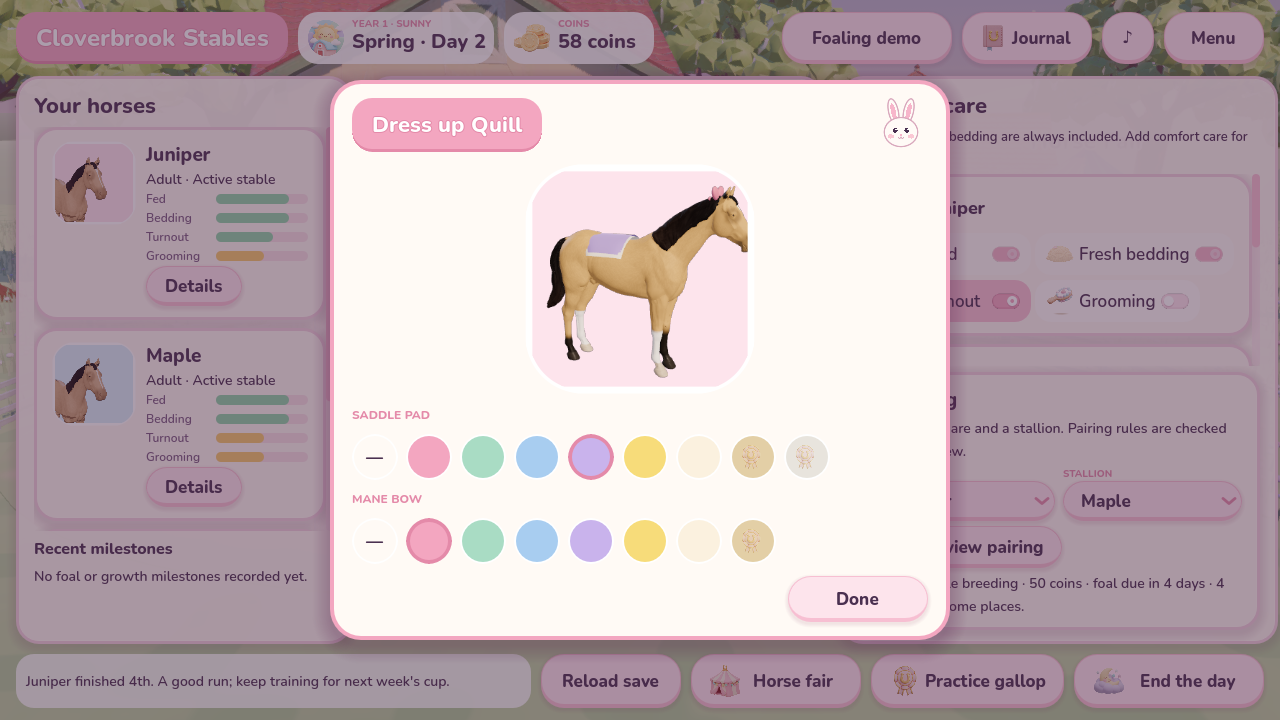
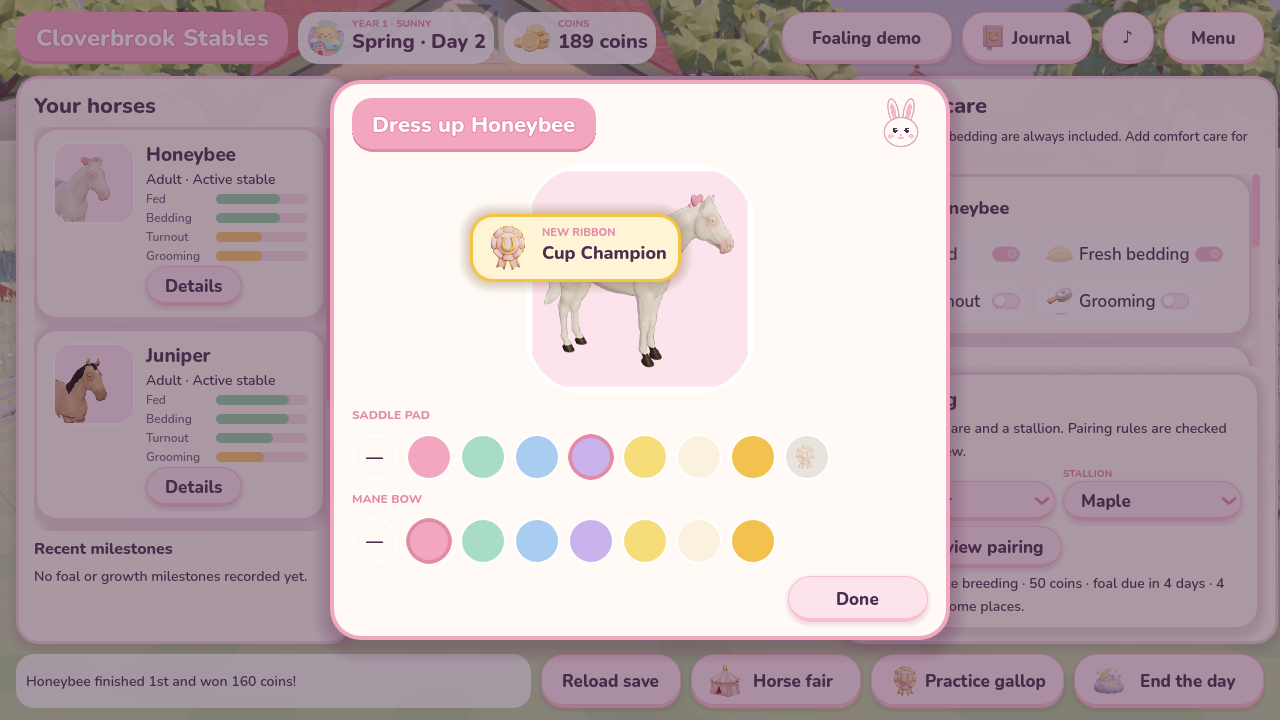
Add a Stable Style ribbon and widen the Journal
D-020 follow-up: a ribbon for dressing a horse in a pad and a bow, a
four-column Journal that fits all sixteen ribbons, and a wider
full-body framing for the dress-up portrait.

Claude-Session: https://claude.ai/code/session_01N8ARS7mN4tQdViRj4KN5GB

diff --git a/game/scripts/Stable/StableDay.Journal.cs b/game/scripts/Stable/StableDay.Journal.cs
@@ -43,6 +43,8 @@ public partial class StableDay
             s => CollectedCoats(s).Count >= 5),
         new("cup", "Cup Champion", "Win the Willowbrook Cup.", "gallop",
             s => s.Ledger.Any(l => l.Kind == ClubRace.PrizeLedgerKind && l.DeltaCoins == ClubRace.PrizeFor(1))),
+        new("style", "Stable Style", "Dress a horse in a saddle pad and a bow.", "grooming",
+            s => s.Horses.Any(h => h.OwnerId.Equals(s.PlayerOwnerId) && Tack.Worn(h, Tack.PadSlot) != null && Tack.Worn(h, Tack.BowSlot) != null)),
         new("savings", "Nest Egg", "Save up 1,000 coins.", "coins", s => s.Coins >= 1000),
         new("season", "A Whole Season", "Reach the summer of your first year.", "day",
             s => s.Header.CalendarDay >= StableCalendar.DaysPerSeason),
@@ -66,7 +68,7 @@ public partial class StableDay
 
     private void BuildJournalOverlay(Control root)
     {
-        _journalOverlay = CozyTheme.Dialog(root, "Stable Journal", 700, out var body, out var buttons, out _);
+        _journalOverlay = CozyTheme.Dialog(root, "Stable Journal", 900, out var body, out var buttons, out _);
         var tabs = new HBoxContainer { Alignment = BoxContainer.AlignmentMode.Center };
         tabs.AddThemeConstantOverride("separation", 8);
         var group = new ButtonGroup();
@@ -119,7 +121,7 @@ public partial class StableDay
         }
         var earned = Ribbons.Where(r => r.Earned(_state)).Select(r => r.Id).ToHashSet();
         _journalSummary.Text = $"{earned.Count} of {Ribbons.Length} ribbons earned. They come from what really happens in your stable.";
-        _journalGrid.Columns = 3;
+        _journalGrid.Columns = 4;
         foreach (var ribbon in Ribbons) _journalGrid.AddChild(RibbonCard(ribbon, earned.Contains(ribbon.Id)));
     }
 
@@ -175,7 +177,7 @@ public partial class StableDay
 
     private static Control RibbonCard(Ribbon ribbon, bool earned)
     {
-        var card = new PanelContainer { CustomMinimumSize = new Vector2(205, 0) };
+        var card = new PanelContainer { CustomMinimumSize = new Vector2(200, 0) };
         var style = CozyTheme.Box(earned ? Color.FromHtml("#fff4d6") : new Color(1, 1, 1, 0.55f), 18, 8);
         style.BorderColor = earned ? Color.FromHtml("#f5c542") : CozyTheme.Border; style.SetBorderWidthAll(earned ? 3 : 2);
         card.AddThemeStyleboxOverride("panel", style);
